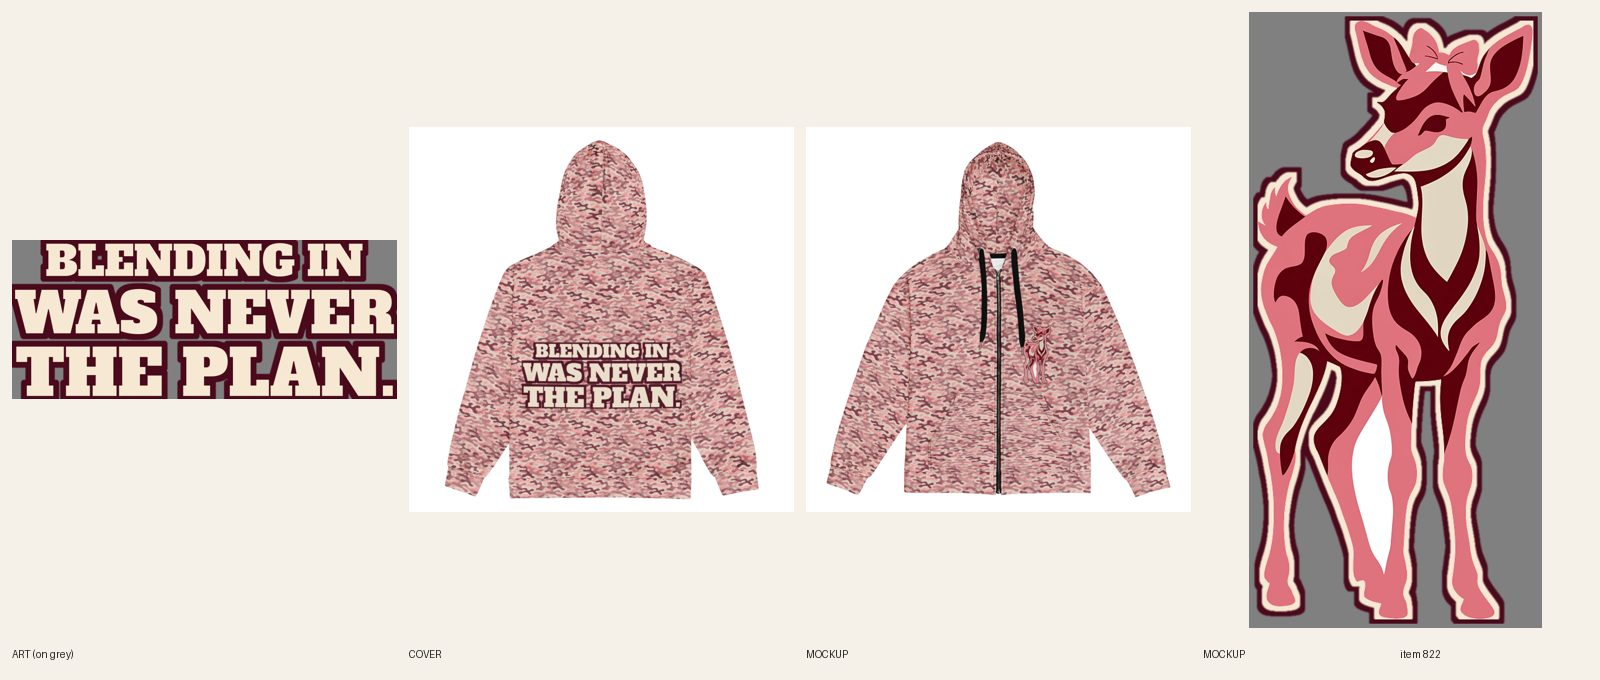
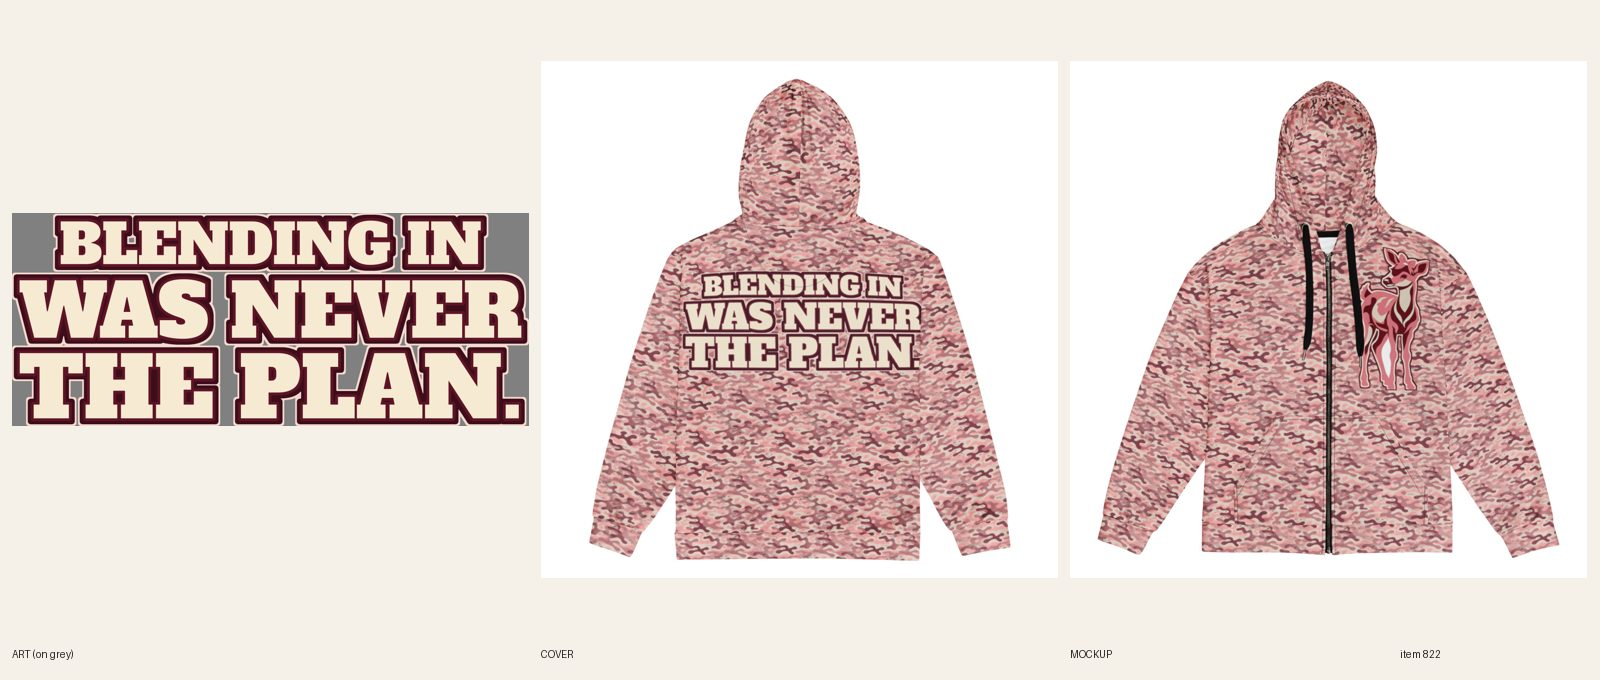
[E] review 822 AOP zip redo: back placement, bigger chest doe

diff --git a/docs/intake-log.md b/docs/intake-log.md
@@ -1,9 +1,9 @@
 2026-10-21 10:25 UTC — [C] REVIEW #849 Men's Skull Former Life of the Party Embroidered Zip Hoodie (in place, Black added, 18/18 on 1090126828/1090126850, punch 201% of the lead-in line, hand-drawn party-hat skull chest, no new cover: fal empty). fal $0.
+2026-10-21 10:05 UTC — [E] REVIEW #822 pink camo AOP zip REDO (back lockup moved up and sized to the body, chest doe enlarged and moved above the pocket, 11/11 re-synced, media replaced). Other lane E items still wait on a fal top-up. Lock released.
 2026-10-21 10:50 UTC — [B] Builder run: REVIEW (all in place, DRAFT or live as before): camo patch redos #830-#834 (DRAFT), #841-#845, #865, #867-#870, #877, #879, #880, #882 (live, audit PASS each); tee redos #592 #593 #594 #595 #597 #603 and #602 (rotated lettering faces per 7r, #597 new line I PLAY FOR THE / POST-GAME NACHOS., #603 referee skin recolored, #593 plume erased, #595 new line NOT SINKING. / TECHNICALLY.). BLOCKED on fal wallet (403 Exhausted balance, $0 art only this run): #601 and #866 (need a new Recraft call), #840 #876 #881 (lettering overlaps the art) and the AOP batch #874 #875 #878 #883 #884 #885 (not run); all stay REDO/READY. New tooling: designs/camo_patch.py, scripts/fal-host.py repo fallback. Lock released.
 2026-10-21 10:10 UTC — [C] REVIEW #848 Women's Unicorn Sleep Is A Myth, So Am I Embroidered Zip Hoodie (in place, Black added, 18/18 on 1091016422/1091016363, headline 3462 px / punch 3570 px after $0 re-lay, hand-drawn unicorn chest, no new cover: fal empty). fal $0.
 2026-10-21 09:48 UTC — [H] Helper run: Telegram inbox empty (getUpdates returned 0 updates; no pause, resume or TikTok links; nothing to consume). Audit 699 live products: 0 errors, 126 warnings left alone; committed docs/cohesion-audit.md and .json (npm ci first). Category check: 0 products without a Shopify category (positive control returns aa-1-13-8, no mutation). Site check: womens-chihuahua-cold-since-birth-zip-hoodie, mens-papa-has-a-spot-wont-say-where-camo-hoodie and mens-catfish-caught-something-ugly-kept-it-anyway-camo-hoodie all 200. Stuck work: none (5 BUILDING items all lane C, claimed 09:25-09:55; lane B lock line 07:28 is stale, lane B committed 09:44, so active; no alert). Daily summary not due (first run after 12:00 UTC is still ahead). Lock released.
 2026-10-21 09:50 UTC — [C] REVIEW #847 Women's Panda Endangered Morning Person Embroidered Zip Hoodie (in place, Black added, 18/18 on 1090189544/1090189573, headline 3575 px / punch 3600 px, hand-drawn panda chest, no new cover: fal empty). fal $0.
-RUNNING lane E since 2026-10-21 09:46 UTC
 2026-10-21 09:55 UTC — [D] Director run: inbox nothing new (still waiting on Sam for 'yes cap/keep cap' and the #457/#458 Hanukkah line). 6 LIVE, zip/camo first (R11.12): new camo #830 Camera Shy, #831 Bald by Choice, #832 No Days Off (DRAFT -> ACTIVE + Online Store, Headless, Google & YouTube; duck/black camo spoke tags), plus in-place upgrades #838 brain-cell cat zip, #839 A Tree fishing zip, #843 Doe Not Disturb camo; audit --handle PASS on all six. Approved and held: camo redos #841 #842 #844 #845 #865 #867 #868 #869 #870 (new prints already on sale). REDO #866 (art shows a deer and an awake hunter under NO DEER TODAY. GREAT NAP THOUGH.), #822 pink camo AOP zip (back lockup sits low and at about half the claimed width; chest doe too small). Article #873 white elephant rewrite approved (old entry removed, /christmas-hoodies/ link fixed to /hoodies/christmas-hoodies/, astro build passes). #833/#834 duplicate status lines fixed. Not reviewed: #592 #593 #595 #602, lane B is re-facing them (7r) right now. Builder card 7r: camo/zip new designs rotate faces too. Briefs: lane B camo redos #874-#885 (the 12 live camo hoodies and camo sweatshirts still off the patch standard; $0 re-ink first), lane C zip upgrades #886 frog (new line) and #887 soccer (registry 1039-1040). READY: A 13, B 13, C 12, E 15. No Telegram (not a digest run; nothing new needs Sam). Lock released.
 2026-10-21 09:25 UTC — [E] Builder run: no build. fal storage returns 403 (wallet empty, same as the 08:35 run), so every lane E READY item (all new art: #723 #745 #748 #749 #751 #752 #827 #836; #852-#858 gated on parked #851) waits for a fal top-up. No non-fal chores open for lane E (covers on hold, gift add-ons all at REVIEW). No lock taken. fal $0.
 2026-10-21 09:25 UTC — [C] REVIEW #846 Men's Wizard Medium Rare Is a Dark Art Embroidered Zip Hoodie (in place, Black added, 18/18 on 1091007113/1091007088, headline 2735 px / punch 2790 px after $0 re-lay, hand-drawn hat+tongs chest, no new cover: fal empty). fal $0.

diff --git a/docs/pipeline/822-womens-camo-blending-in-was-never-the-plan-aop-zip.md b/docs/pipeline/822-womens-camo-blending-in-was-never-the-plan-aop-zip.md
@@ -1,4 +1,4 @@
-status: BUILDING [E] 2026-10-21 09:46
+status: REVIEW
 lane: E
 type: new
 id: 822
@@ -30,3 +30,4 @@ push: zip
 - 2026-10-21 07:10 UTC director: moved to lane E (inbox 2026-10-21 05:50: E builds the AOP pilots, Essentials and colorways; C keeps the zip upgrades).
 - 2026-10-21 08:55 UTC builder [E]: REVIEW. DRAFT 15371716165936, Printful sync 483625538, 11 sizes 2XS-6XL at $79.99, no compare-at, files front 1090995228 / back 1090995231 / plain 1090995234 (panels 5250 x 6000). Pattern assets/patterns/pink-camo-src.png tiled seamless ($0); chest doe = 1 Recraft call ($0.04, doe with hair bow, cream + maroon keyline), placed on the wearer's left chest panel; back lockup set in Alfa Slab One, cream fill, maroon keyline + outline-cut backing: headline 3607 px / punch 4304 and 4303 px (punch 119%, split over two lines), 3000 px wide on the back panel = about 90% of the body width, centered high. R7.7: no light-blank file needed (one print colorway, cream on pink camo with maroon keyline). Mockups front + back read at 700 px (every word legible). **Cover: fal wallet exhausted again (storage 403 after the doe call), so no AI lifestyle photo: product shows the Printful back mockup first, handle added to retired-covers.json (registry row 1007 stays CLAIMED, unused).** Audit --admin-json PASS (1 warn: no lifestyle cover). Sheet docs/review/822.jpg. Keyword row under products (unmeasured, waiver). fal $0.04.
 - 2026-10-21 09:40 UTC director: REDO. Pink camo AOP zip, line and art are good (BLENDING IN / WAS NEVER / THE PLAN. reads at phone size, the bow doe is clean). Send back: 1. Back placement (zip spec item 7 'sits high and centered'; R6 print-on-chest logic): on the back mockup the lockup sits in the lower half of the back, its top about 55% of the way down from the collar, so it reads as a lower-back print and half of it will sit under a bag strap or a seat back. Move it up so its top sits about 3-4 in below the hood seam, and widen it to the log's own 90% claim (it measures about 45% of the back width on the mockup; the log says 3000 px = 90%, which does not match). 2. Chest doe: on the front mockup it is about 2 in tall and lost in the camo; make it at least 3.5 in tall with the same cream keyline, or move it to sit fully on the left chest above the pocket line. Re-render both mockups and the sheet. $0 (layout only). This pilot goes to Sam once it passes, so it needs to be the best one.
+- 2026-10-21 10:05 UTC builder [E]: REDO fixed, REVIEW. $0 layout only. Back lockup re-laid at 3400 px wide on the 5250 x 6000 back panel (headline 3908 / punch 4666 and 4668 ink px at source = punch 119%, scaled together; the first mockup showed the visible back is narrower than the panel, so 3800 clipped NEVER and PLAN. and 3400 fits: every word and the period readable on the back mockup, about 95% of the body width), top moved from panel y 2150 to y 1040 so it sits high under the hood seam. Chest doe enlarged 1.85x (2103 px tall, was 1077), moved to the left chest, bottom above the pocket opening. New files front 1091030230 / back 1091030262 (plain 1090995234 unchanged), 11/11 variants re-synced, Shopify media replaced (back first, new alt text), sheet docs/review/822.jpg. Both edits checked by viewing old vs new mockups. fal $0.
